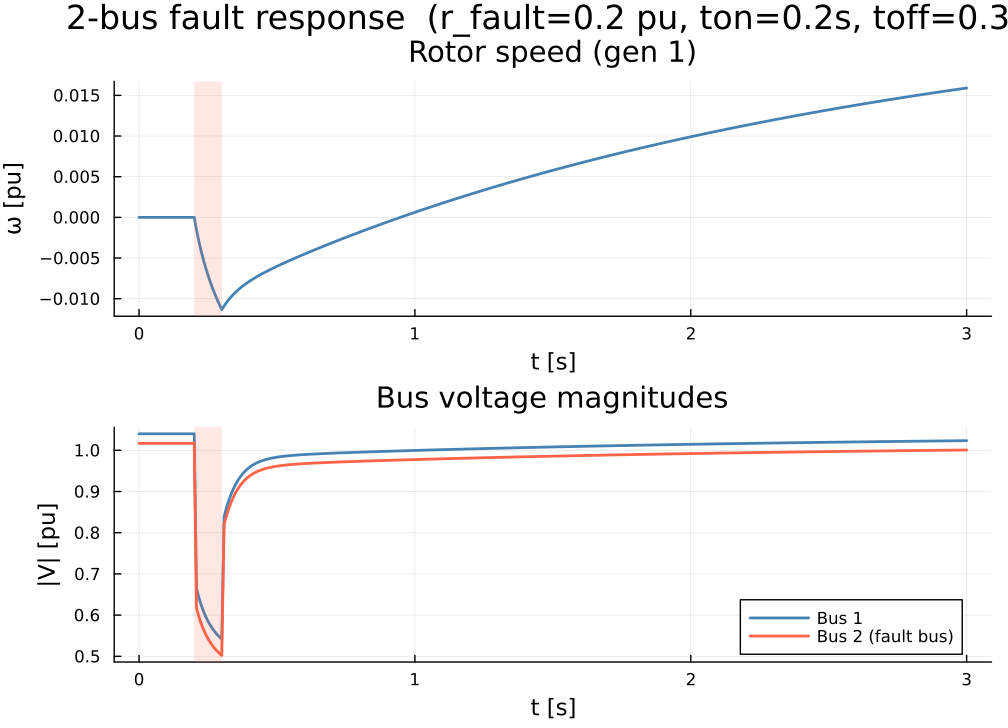
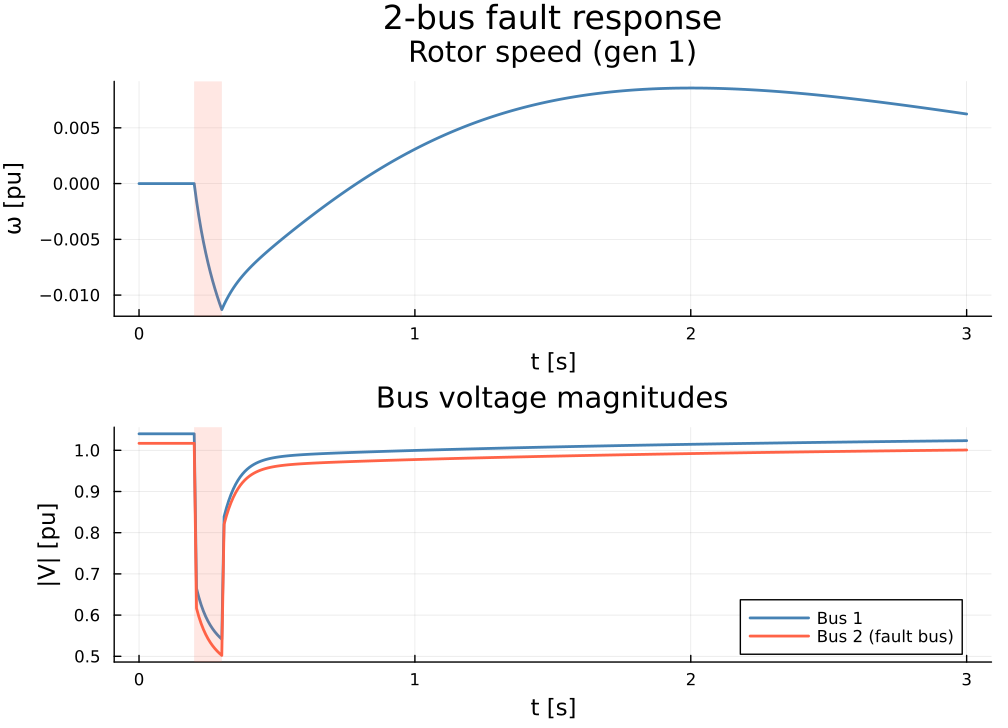
update readme

diff --git a/README.md b/README.md
@@ -10,8 +10,6 @@ multi-machine power system through fault contingencies. The whole pipeline is wr
 derivatives flow through it, enabling gradient-based optimization, sensitivity
 analysis, and machine-learning-in-the-loop workflows.
 
-![2-bus fault response](docs/assets/2bus_fault.png)
-
 ## Features
 
 - Read PSS/E `.raw` (network) and `.dyr` (dynamic) files; MATPOWER `.m` files
@@ -41,13 +39,14 @@ pkg> dev https://github.com/dynsytms/GradPower.jl
 
 ## Quick start
 
-A complete fault-on-bus simulation on the bundled 2-bus case:
+A complete fault-on-bus simulation on the bundled 2-bus case (GENROU
+machine with an IEESGO governor):
 
 ```julia
 using GradPower
 
 # 1. Parse PSS/E network + dynamic data.
-sys = GradPower.from_psse("examples/2bus.raw", "examples/2bus.dyr")
+sys = GradPower.from_psse("examples/2bus.raw", "examples/2bus_IEESGO.dyr")
 
 # 2. Build the admittance matrix and solve the power flow.
 GradPower.build_network!(sys)
@@ -79,15 +78,9 @@ vim = traj[voff + 2*(b - 1) + 2, :]
 vm  = sqrt.(vre.^2 .+ vim.^2)
 ```
 
-The plot at the top of this README was produced from exactly this trajectory.
+The trajectory below was produced from exactly this script:
 
-To run the same script on a larger case, swap the file paths:
-
-```julia
-sys = GradPower.from_psse("examples/ACTIVSg2000.raw", "examples/ACTIVSg2000.dyr")
-```
-
-Everything downstream is identical.
+![2-bus fault response](docs/assets/2bus_fault.png)
 
 ## Repository layout
 